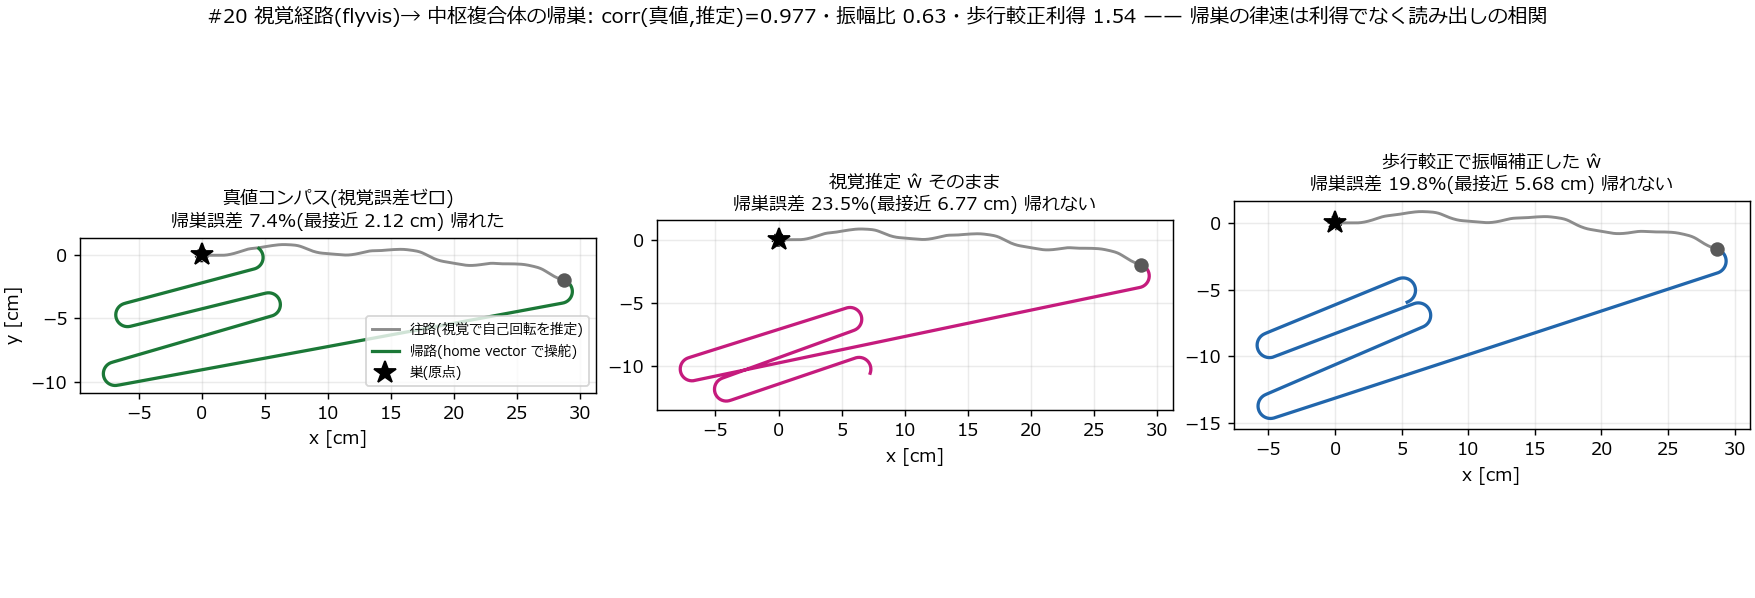
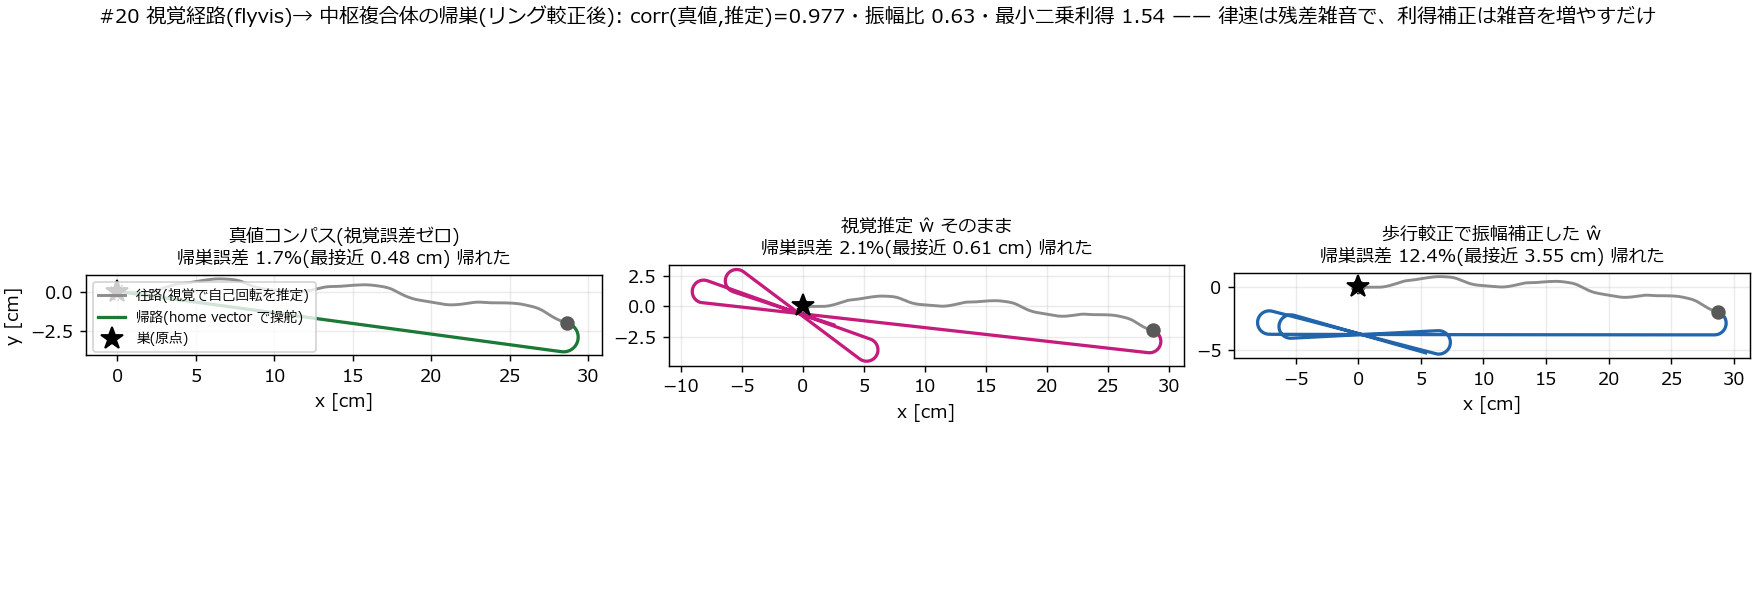
ハエ記事: #20 の帰巣を較正忘れとして訂正し、#23 減速つき帰巣と DSI 非有限の原因を追記
リング・アトラクタを較正せずに使っていた(バンプが ω より 10.8 % 速い)。較正後は 真値 1.7 % / 視覚推定そのまま 2.1 % / 振幅補正 12.4 % で、「振幅バイアスが主因」「7.4 % は周回のせい」を撤回(§8 に 2 件目)。減速は記憶の更新と干渉せず、干渉に見えた 2 つは較正忘れと規則の不安定平衡(操舵も速度も |H| で消える)。DSI の非有限は flyvis の刺激の NaN 末尾詰めが原因で門を修正。図 3 点を assets/fly に。

Claude-Session: https://claude.ai/code/session_016yjh6dVNuPb4j1h37hAVGq

diff --git a/docs/articles/qiita_flybrain_closedloop_en.md b/docs/articles/qiita_flybrain_closedloop_en.md
@@ -69,7 +69,8 @@ One experiment = one question. **This article is appended to every time an exper
 | What if the search is compressed to 260 per-cell-type dims? | Wins on little data (+0.71), ties on plenty (+0.91) | §5 |
 | What if the readout is solved by regression instead? | Same shape: 80 weights ≫ 5768 weights | §5 |
 | Does better behaviour bring biological realism with it? | The opposite. Direction selectivity 3/8 → 1/8; untrained is 0/8 | §6 |
-| Can the visual estimate drive central-complex homing? | Yes, but the limit is readout correlation, not gain | §7 |
+| Can the visual estimate drive central-complex homing? | Yes. **The first numbers were retracted — the compass had not been calibrated** (second entry in §8). Calibrated: the raw estimate homes at 2.1 %, amplitude correction makes it worse (12.4 %) | §7 → appendix |
+| Does deceleration interfere with the memory update? | No. The two things that looked like interference were something else: a 10.8 % compass gain error, and an unstable equilibrium of a rule in which steering and speed both vanish with \|H\| | appendix |
 | Does enlarging the eye break it? | No — and the first conclusion here was retracted | §8 |
 | Does shuffling the wiring cost performance? | **Not measurable.** Two shuffles differ from each other 3× more | appendix |
 | Does a staged curriculum produce direction selectivity? | Yes (0/8 → **5/8**) — and the final behavioural stage destroys it (→ 1/8) | appendix |
@@ -315,9 +316,11 @@ For completeness, the untrained network (wiring only, parameters from the initia
 
 Finally, the visual estimate was connected to **navigation**. The insect central complex contains a ring attractor representing heading (a bump travelling around a circle) and a path integrator accumulating the home vector. Both were implemented with closed-form checks (bound on phase error, closed-loop residual, monotonic approach on the homeward leg), and the flyvis angular velocity estimate was fed into the compass.
 
-![Homing from the visual pathway through the central complex](https://raw.githubusercontent.com/furuse-kazufumi/fullseye/master/docs/articles/assets/fly/poc_cx_flyvis_link.png)
+> **Correction (2026-09-15)**: the numbers in this section (7.4 / 23.5 / 19.8 %), the "error decomposition" and the "circling" explanation are **retracted**. The ring attractor had been used without calibration (second entry in §8). The calibrated numbers and the deceleration experiment are in the appendix, "Homing with deceleration". The original text and figure are left as they were.
 
-*↑ Left: a ground-truth compass (zero visual error). Middle: the raw visual estimate. Right: the visual estimate with its amplitude corrected by a walking calibration. Grey is the outbound path, colour is the homeward path, the star is the nest. Labels are in Japanese; the error percentages are in the text.*
+![Homing from the visual pathway through the central complex (first version, uncalibrated)](https://raw.githubusercontent.com/furuse-kazufumi/fullseye/master/docs/articles/assets/fly/poc_cx_flyvis_link_uncalibrated.png)
+
+*↑ The first-version figure (uncalibrated compass). Left: a ground-truth compass (zero visual error). Middle: the raw visual estimate. Right: the visual estimate with its amplitude corrected by a walking calibration. Grey is the outbound path, colour is the homeward path, the star is the nest. Labels are in Japanese; the error percentages are in the text.*
 
 - **Ground-truth compass**: homing error 7.4 % (closest approach relative to a 28.8 cm outbound path)
 - **Raw visual estimate**: 23.5 % (does not get home)
@@ -343,6 +346,10 @@ The cause was not optics. It was a **tooling defect in which the second eye cons
 What actually holds: **enlarging the eye does not break anything even without retraining; it improves slightly and saturates** (0.98 → 0.98–0.99). Shrinking (331 ommatidia) does hurt. Acceptance-angle co-adaptation does not matter over this range.
 
 > **When a result surprises you, suspect tool ordering before you reach for physics.** The second object built in one process, the second call to a function, the second run that hit a cache — reproduce it in isolation before interpreting it.
+
+**Second retraction (2026-09-15).** The homing numbers in §7 (ground truth 7.4 % / raw visual 23.5 % / amplitude-corrected 19.8 %) and what was drawn from them — "the error splits into 3.8 points of amplitude and 12.4 points of residual" and "the 7.4 % is the agent circling at constant speed" — are withdrawn. The ring attractor had been used without calibration, and its **bump travelled 10.8 % faster than the angular velocity**. Calibrated, the numbers are 1.7 % / 2.1 % / 12.4 %: the raw visual estimate gets home on its own, and the amplitude correction makes things worse (appendix, "Homing with deceleration"). The direction of the conclusion — the residual is what limits homing — survived, but every number that supported it has been replaced. It was found by the deceleration experiment: the agent stopped 9 cm from the nest, I almost called that "interference", and the cause turned out to be calibration.
+
+> **Check that a component was calibrated on the caller's side, not the component's.** A calibration function existing and being called on this path are two different things. §7 used a calibratable part without calibrating it.
 
 ## What to take away
 
@@ -479,6 +486,8 @@ Silencing the visual pathway stage by stage, from the bottom up, and lining up w
 
 One lesson. **Ride two metrics on a single run and one metric's failure invalidates every condition.** M4 came back 34/34; DSI was lost 34/34. Metrics should run independently, or at minimum the control condition should establish that the metric itself is sound before the sweep starts.
 
+**Addendum (same day, afternoon) — what the non-finite values were.** The smallest reproduction (model 000, nothing silenced, no hook registered, just two speeds, 19 and 25) shows the speed-25 responses going non-finite **from frame 465 on**, with zero non-finite values inside the frames where the stimulus itself is finite. The primary source is flyvis's `moving_bar.py`, `_resample`: stimuli of different lengths per speed are **padded to the slowest one's length with NaN** (the code says so in a comment), and the network carries the NaN forward with the layer delays. At six speeds that is 62,616 elements per column, structurally — matching the control's 4,057,080 of 10,090,080 in the full run, and explaining why silenced conditions had exactly 62,616 fewer. flyvis's own DSI reads only its time window and is unaffected; what was broken was the ladder's "every element finite" gate. A smoke test at speed 19 alone has no padding, so it could never have found this. The gate now checks only frames where the stimulus is finite; the selftest matches the stored references for all eight cell types with ΔDSI 0.0000. The 34-condition ladder goes back into the queue, DSI included. Lesson: **a "must be finite" gate raises false alarms unless it knows where the tool uses NaN on purpose.**
+
 ### Forgetting disappeared when the objective was written differently (2026-09-15)
 
 The previous section reported that a staged curriculum can build direction selectivity but that **the final behavioural stage destroys it** (5/8 → 1/8). The proposed remedy — the **cumulative objective**, where stage *k* is scored as the mean over stages 1…*k* — has now been run from the same starting point, with the same budget and the same tasks.
@@ -498,12 +507,37 @@ So **the performance-versus-realism trade-off was not a law; it was a way of wri
 
 The cost is explicit. Each evaluation measures every stage, so the final stage takes 239.8 s per generation — about 7× the non-cumulative run, 140 minutes in total against roughly 40. **Evaluation gets heavier in proportion to how many properties you insist on keeping**, which makes "what do we keep" a design decision to be made out loud.
 
+### Homing with deceleration — both things that looked like "interference" were something else (2026-09-15)
+
+§7 ended with "adding deceleration interferes with the memory update, so that needs its own experiment". Running that experiment showed not interference but that **the numbers in §7 were wrong**.
+
+**First: the compass had not been calibrated.** With deceleration (forward speed = v0 · |H| / r_slow, where |H| is the length of the home vector the memory decodes — nothing the brain does not have), even the ground-truth compass stopped 31–41 % of the outbound distance from the nest (worse than the constant-speed 7.4 %), while the memory said "home" and the true position was 9 cm away. Tracing it back: the ring attractor in §7 had been used with its default gain (g = 1), and **its bump travelled 10.8 % faster than the angular velocity** (1.000 after calibration; the pure time lag is 0.002 rad). The first homeward turn of ≈ π rad puts it 0.34 rad off. Re-measuring §7 with the compass calibrated:
+
+| Condition | §7 as first published (uncalibrated) | Calibrated |
+|---|---|---|
+| Ground-truth compass | 7.4 % | **1.7 %** (home) |
+| Raw visual estimate | 23.5 % (not home) | **2.1 %** (home) |
+| Amplitude corrected by gain 1.54 | 19.8 % | **12.4 %** (worse than raw) |
+
+![Homing after calibration](https://raw.githubusercontent.com/furuse-kazufumi/fullseye/master/docs/articles/assets/fly/poc_cx_flyvis_link.png)
+
+*↑ §7 after calibration. The raw visual estimate gets home (middle). The amplitude correction throws the homeward leg off (right).*
+
+§7's "3.8 points amplitude + 12.4 points residual", "the lever is correlation, not calibration" and "the 7.4 % is circling" were all products of that missing calibration and are retracted (second entry in §8). The calibrated reading: the 0.63× amplitude only matters through the **net rotation** (−0.26 rad on this outbound path, against 4.6 rad of total turning), whereas the least-squares gain of 1.54 also amplifies the part of the noise that accumulates into heading: the instantaneous residual (std) *falls* from 0.226 to 0.119 rad/s, but the integrated heading error ∫(ŵ − ω)dt *rises* from 0.124 to 0.210 rad rms, and the memory error at the turning point from 2.8 cm to 5.3 cm. Path integration only cares about the latter. **What decides homing is the residual that accumulates into heading, not the amplitude** — the conclusion points the same way, but the numbers behind it are different ones.
+
+**Second: an unstable equilibrium in the rule.** With the compass calibrated, deceleration ran away at exactly r_slow = 2 cm, stopping 6.9 cm out. Not a measurement hole but a hole in the rule: steering w = k |H| sin ε (ε the angle to the nest from the heading) and speed both scale with |H|, so the path curvature w / v does not depend on |H| at all — **the moment the agent comes to rest facing away from the nest (sin ε ≈ 0) it does not turn, walks straight off at the speed its residual memory error dictates, and the further it walks the larger |H| gets and the faster it goes** (exponential, time constant r_slow / v0). Which r_slow triggers it depends only on the heading at the moment of stopping; 2 cm was luck. Adding "walk only while the nest is ahead" (multiply v by max(0, cos ε) — the fly's body saccade: no walking mid-turn) stops it at every r_slow: 0.03 cm for the ground-truth compass, arrival time monotonic in r_slow (10.8 → 25.1 s), and for the visual conditions the stopping error, 0.59 cm (raw) / 3.81 cm (gain-corrected), **coincides exactly with the error the memory holds at the moment of stopping**.
+
+![Homing with deceleration](https://raw.githubusercontent.com/furuse-kazufumi/fullseye/master/docs/articles/assets/fly/poc_cx_homing_brake.png)
+
+*↑ Left: sweep of the deceleration radius r_slow. Dotted (no gate) runs away at 2 cm; solid (walk only while the nest is ahead) stops everywhere. Dashed lines: distance after 30 s at constant speed. Middle: stopping error against the memory's own error at the stop (on the identity line). Right: the homeward leg at r_slow = 2 cm (markers are the stopping points). Labels are in Japanese.*
+
+Deceleration does not interfere with the memory update. **Deceleration hides nothing: it writes the error accumulated in memory straight into the stopping position** — and since the constant-speed "closest approach" was an optimistic number (the track happened to pass near the nest), deceleration is the more honest metric. The experiment ran four times and three of its pre-registered predictions failed; the record is kept in the script's docstring.
+
 ### What we measure next
 
 When a result lands, it gains a row in "Experiments so far" and loses its line here.
 
-- [ ] **Fix the direction-selectivity measurement path** —— in the ladder above, responses went non-finite even in the control condition. That is unrelated to silencing, so the response generation itself has to be traced. Until it is fixed, every direction-selectivity number measured through that path is void.
-- [ ] **Homing with deceleration** —— the 7.4 % that remains even with a perfect compass (§7) comes from constant forward speed circling over the nest. Deceleration interferes with the memory update, so it needs its own experiment.
+- [ ] **Re-run the developmental ladder with DSI** —— the non-finite values were flyvis's NaN padding of the stimulus; the gate is fixed (addendum above). 34 conditions × 6 speeds, about 3.5 hours.
 
 ### About the author
 
